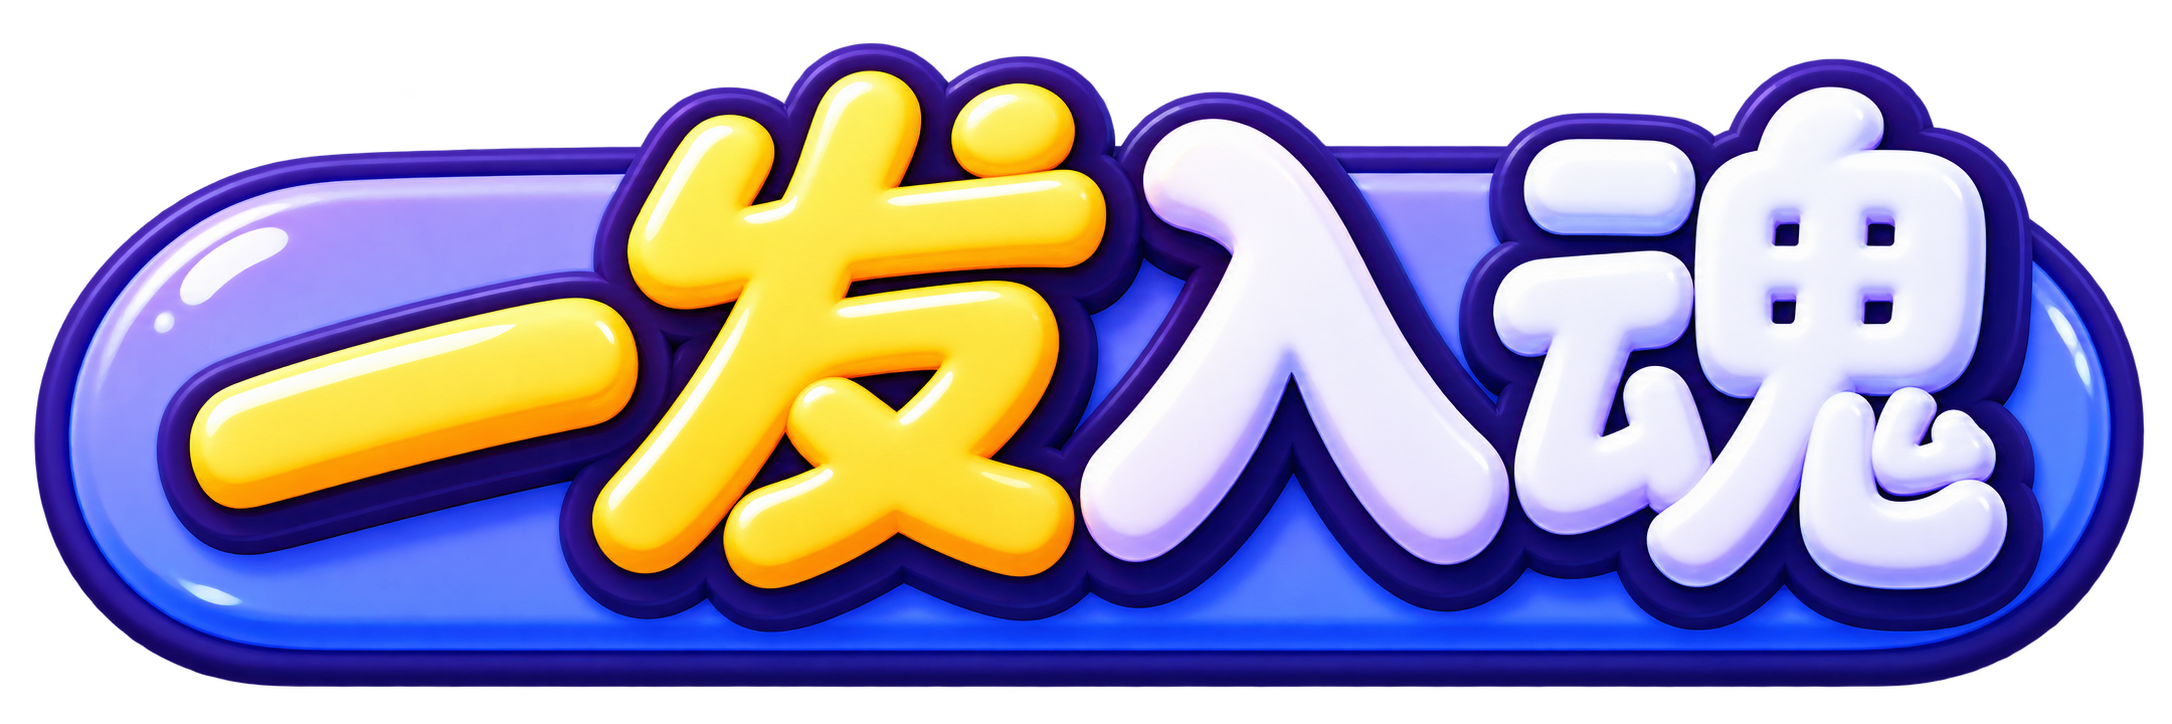
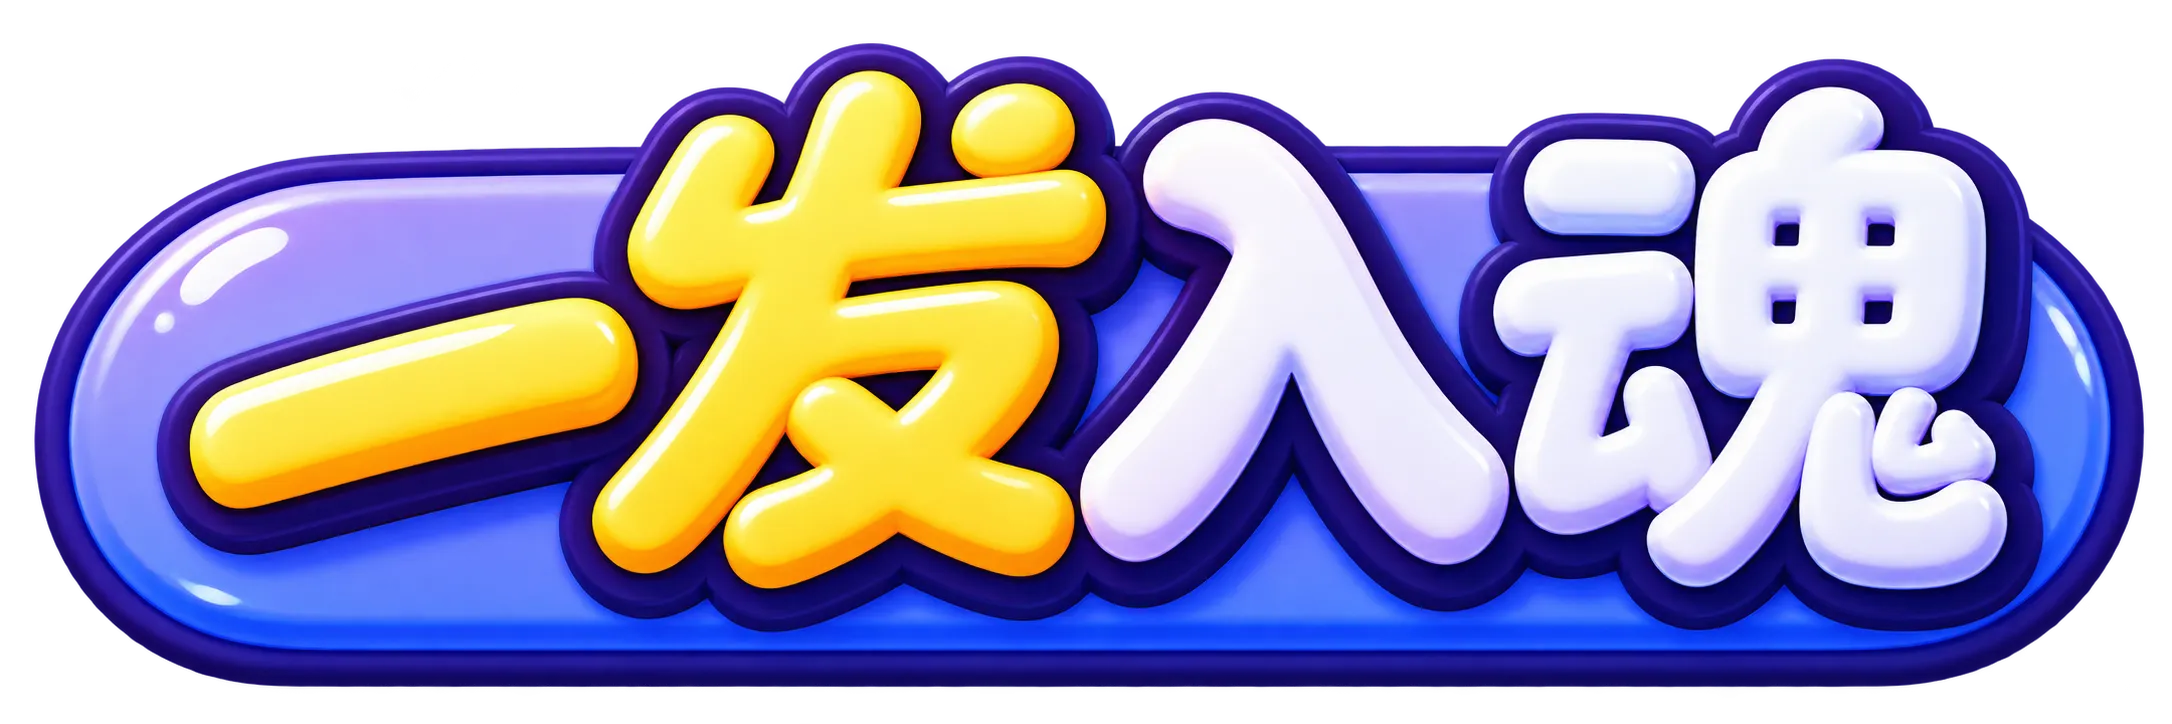
Optimize first load and defer game assets

diff --git a/game.js b/game.js
@@ -4,20 +4,22 @@
  let W=600,H=900;
  const origin={x:300,y:816},bounds={left:18,right:582,top:18,bottom:882};
  const $=id=>document.getElementById(id);
+ const now=()=>typeof performance!=='undefined'?performance.now():Date.now();
  // Art changes presentation only; all collisions remain in the original flat room.
  const art={};
  const artFiles={courtyard:'toy-courtyard-lawn-v1',gardenDecor:'toy-garden-decor-v1',player:'toy-player-poses',monster:'toy-bomb-satin-v1',normalMonster:'toy-normal-sculpt-v2',helmet:'toy-windup-cover-v1',helmetMonster:'toy-windup-armored-v1',helmetBare:'toy-windup-bare-v1',shield:'toy-shield-peek-v1',barrel:'toy-barrel',obstacle:'toy-wood-satin-v2',woodDamaged:'toy-wood-damaged-satin-v2',brick:'toy-limestone-v1',iron:'toy-basalt-v1'};
- let assetsReady=typeof Image==='undefined';
- let gameEntered=assetsReady;
+ let assetsReady=typeof Image==='undefined',allAssetsReady=assetsReady,initialReadyAt=assetsReady?now():0,gameEntered=assetsReady;
+ let ensureLevelAssets=()=>Promise.resolve(true),showLevelLoading=()=>{};
  if(!assetsReady)for(const key of Object.keys(artFiles))art[key]=new Image();
- // Count decoded assets, not estimated download bytes. Keep the game gated on failure.
+ // Gate on first-level art and visible UI; defer art used only by later levels.
  function prepareAssets(){
   if(assetsReady)return;
-  const jobs=[...Object.entries(artFiles).map(([key,file])=>({img:art[key],file})),...Array.from(document.querySelectorAll('img[data-asset]'),img=>({img,file:img.dataset.asset}))];
+  const jobs=[...Object.entries(artFiles).map(([key,file])=>({key,img:art[key],file,done:false})),{key:'toy-normal-current',img:$('currentAmmoIcon'),file:'toy-normal',done:false},...Array.from(document.querySelectorAll('img[data-asset]'),img=>({key:img.dataset.asset,img,file:img.dataset.asset,done:false}))];
+  const byKey=new Map(jobs.map(job=>[job.key,job]));
+  const firstLevelKeys=['courtyard','gardenDecor','player','normalMonster','toy-title','toy-normal-current','toy-fast','toy-explosive','toy-scatter'];
   const progress=$('loadingProgress'),status=$('loadingStatus'),retry=$('loadingRetry'),main=document.querySelector('main');
-  let running=false;
-  const completed=()=>jobs.filter(job=>job.done).length;
-  const report=()=>{progress.max=jobs.length;progress.value=completed();status.textContent=`素材准备 ${completed()} / ${jobs.length} · ${Math.round(completed()/jobs.length*100)}%`;};
+  let running=false,backgroundPromise=null,pendingLevel=null,loadRequest=0;
+  const report=(queue,label='首关画面')=>{const done=queue.filter(job=>job.done).length;progress.max=queue.length;progress.value=done;status.textContent=`${label} ${done} / ${queue.length} · ${Math.round(done/queue.length*100)}%`;};
   const fetchImage=(job,attempt)=>new Promise((resolve,reject)=>{
    const img=job.img;let finished=false;
    const finish=error=>{if(finished)return;finished=true;clearTimeout(timer);img.onload=img.onerror=null;error?reject(error):resolve();};
@@ -27,24 +29,46 @@
    // The third attempt is the original PNG, also a fallback for older WebP decoders.
    img.src=`assets/${job.file}.${attempt===2?'png':'webp'}${attempt===1?`?retry=${Date.now()}`:''}`;
   });
-  async function run(){
-   if(running)return;running=true;retry.hidden=true;report();
-   await Promise.all(jobs.filter(job=>!job.done).map(async job=>{
-    for(let attempt=0;attempt<3;attempt++)try{await fetchImage(job,attempt);job.done=true;report();return;}catch{/* Retry only this failed asset; keep all successful downloads. */}
-   }));
-   running=false;
-   if(completed()!==jobs.length){status.textContent=`还有 ${jobs.length-completed()} 个素材未加载成功，请检查网络后重试。`;retry.hidden=false;return;}
-   status.textContent='正在准备持枪小人…';await window.playerModelReady;
-   assetsReady=true;status.textContent=window.playerModel?.ready?'准备就绪 · 点击进入，音乐随即开启':'准备就绪 · 使用兼容人物画面';$('loadingStart').hidden=false;
+  async function loadJobs(queue,onProgress){
+   const results=await Promise.all(queue.map(async job=>{
+    if(job.done)return true;
+    if(job.promise)return job.promise;
+    job.promise=(async()=>{for(let attempt=0;attempt<3;attempt++)try{await fetchImage(job,attempt);job.done=true;onProgress?.();return true;}catch{/* Retry only this failed asset; keep all successful downloads. */}return false;})().finally(()=>{job.promise=null;});
+    return job.promise;
+   }));return results.every(Boolean);
   }
-  $('loadingStart').onclick=async()=>{
-   const button=$('loadingStart');if(!assetsReady||button.disabled)return;
-   button.disabled=true;button.textContent='正在准备音乐…';
-   try{await window.gameAudio?.start();}finally{
-    gameEntered=true;dragging=false;main.inert=false;document.body.classList.remove('loading');syncCanvas();draw();$('loadingScreen').hidden=true;
-   }
+  const requiredKeys=index=>{
+   const level=levels[index],keys=new Set(['courtyard','gardenDecor','player','normalMonster','toy-title','toy-normal-current']);
+   for(const enemy of level.enemies){const type=enemy[2]||'normal';if(type==='bomb')keys.add('monster');if(type==='shield')keys.add('shield');if(type==='helmet'){keys.add('helmetMonster');keys.add('helmetBare');keys.add('helmet');}}
+   for(const wall of level.walls){const type=wall.type||'iron';keys.add(type);if(type==='obstacle')keys.add('woodDamaged');}
+   if(level.barrels.length)keys.add('barrel');return [...keys];
   };
-  retry.onclick=run;run();
+  const keysReady=keys=>keys.every(key=>byKey.get(key)?.done);
+  ensureLevelAssets=async index=>{const queue=requiredKeys(index).map(key=>byKey.get(key));if(queue.some(job=>!job))return false;return loadJobs(queue,()=>{if(!loadingScreen.hidden)report(queue,'本关画面');});};
+  const showPendingLevel=(index,keep,request)=>{pendingLevel={index,keep,request};main.inert=true;loadingScreen.hidden=false;retry.hidden=true;const queue=requiredKeys(index).map(key=>byKey.get(key)).filter(Boolean);report(queue,'本关画面');};
+  showLevelLoading=(index,keep)=>{const keys=requiredKeys(index);if(keysReady(keys))return null;const request=++loadRequest;showPendingLevel(index,keep,request);return ensureLevelAssets(index).then(ok=>{if(request!==loadRequest)return false;if(ok){pendingLevel=null;main.inert=false;loadingScreen.hidden=true;load(index,keep);return true;}status.textContent='本关素材加载失败，请检查网络后重试。';retry.hidden=false;return false;});};
+  async function runInitial(){
+   if(running)return;running=true;retry.hidden=true;const queue=firstLevelKeys.map(key=>byKey.get(key));report(queue);
+   const ok=await loadJobs(queue,()=>report(queue));
+   if(!ok){running=false;status.textContent=`首关还有 ${queue.filter(job=>!job.done).length} 个素材未加载成功，请检查网络后重试。`;retry.hidden=false;return;}
+   status.textContent='正在准备持枪小人…';progress.max=1;progress.value=0;
+   await window.loadPlayerModel?.();
+   assetsReady=true;initialReadyAt=now();running=false;progress.value=1;status.textContent=window.playerModel?.ready?'准备就绪 · 点击进入，音乐随即开启':'准备就绪 · 使用兼容人物画面';$('loadingStart').hidden=false;
+  }
+  function runBackground(){
+   if(backgroundPromise)return backgroundPromise;
+   const remaining=jobs.filter(job=>!job.done&&!firstLevelKeys.includes(job.key));
+   backgroundPromise=loadJobs(remaining).then(ok=>{allAssetsReady=ok;return ok;});return backgroundPromise;
+  }
+  retry.onclick=()=>{if(!gameEntered){runInitial();return;}if(pendingLevel)load(pendingLevel.index,pendingLevel.keep);};
+  $('loadingStart').onclick=()=>{
+   const button=$('loadingStart');if(!assetsReady||button.disabled)return;
+   button.disabled=true;button.hidden=true;button.textContent='正在准备音乐…';
+   const audioReady=Promise.resolve(window.gameAudio?.start()).catch(()=>{});
+   gameEntered=true;dragging=false;main.inert=false;document.body.classList.remove('loading');syncCanvas();draw();$('loadingScreen').hidden=true;
+   audioReady.finally(runBackground);
+  };
+  runInitial();
  }
  const ready=img=>img&&img.complete&&img.naturalWidth>0;
  let recoilUntil=0;
@@ -147,7 +171,8 @@
  function refreshTrajectory(){const button=$('viewTrajectory');button.disabled=state.phase!=='aim'||!previous.length;button.textContent=showPrevious?'取消查看轨迹':'查看轨迹';button.setAttribute('aria-pressed',String(showPrevious));button.setAttribute('aria-label',button.textContent);button.title=previous.length?(showPrevious?'再次点击取消查看轨迹':'点击查看上一枪轨迹'):'先射击一次，下一枪或重试时可查看';}
  $('viewTrajectory').onclick=()=>{if(state.phase!=='aim'||!previous.length)return;showPrevious=!showPrevious;refreshTrajectory();};
  function selectAmmo(type){if(!ammoTypes[type]||state.phase!=='aim'||state.inventory[type]<=0)return false;selectedAmmo=type;state.ammo=type;refreshAmmo();return true;}
- function load(index,keep=false){previous=keep&&state?.index===index?(state.segments.length?state.segments.map(s=>({...s})):previous):[];showPrevious=false;configureRoom(index);state=newState(index);if(!state.inventory[selectedAmmo])selectedAmmo=Object.keys(levels[index].ammo)[0];state.ammo=selectedAmmo;dragging=false;slow=0;screenShake=0;$('result').hidden=true;$('levelName').textContent=`${levelGroups[levels[index].group].short} ${String(levels[index].number).padStart(2,'0')} / ${levels[index].name.split(' · ')[1]}`;$('stateText').textContent='拖动瞄准 · 松手开枪';refreshAmmo();updateCounter();refreshComparison();document.querySelectorAll('.level-button').forEach(b=>b.classList.toggle('active',Number(b.dataset.levelIndex)===index));}
+ function applyLoad(index,keep=false){previous=keep&&state?.index===index?(state.segments.length?state.segments.map(s=>({...s})):previous):[];showPrevious=false;configureRoom(index);state=newState(index);if(!state.inventory[selectedAmmo])selectedAmmo=Object.keys(levels[index].ammo)[0];state.ammo=selectedAmmo;dragging=false;slow=0;screenShake=0;$('result').hidden=true;$('levelName').textContent=`${levelGroups[levels[index].group].short} ${String(levels[index].number).padStart(2,'0')} / ${levels[index].name.split(' · ')[1]}`;$('stateText').textContent='拖动瞄准 · 松手开枪';refreshAmmo();updateCounter();refreshComparison();document.querySelectorAll('.level-button').forEach(b=>b.classList.toggle('active',Number(b.dataset.levelIndex)===index));}
+ function load(index,keep=false){if(!gameEntered){applyLoad(index,keep);return;}const waiting=showLevelLoading(index,keep);if(waiting)return waiting;applyLoad(index,keep);return Promise.resolve(true);}
  function refreshComparison(){const r=comparison[state.index];$('comparison').hidden=false;$('comparisonRows').innerHTML=`<tr><td>本关</td><td>${r?r.last+'/'+state.enemies.length:'—'}</td><td>${r?r.best+'/'+state.enemies.length:'—'}</td><td>${r?r.bestScore:'—'}</td><td>${r?'★'.repeat(r.bestStars)+'☆'.repeat(3-r.bestStars):'—'}</td><td>${r?r.tries:0}</td></tr>`;const [two,three]=levels[state.index].starScores;$('ratingGoal').textContent=two===three?'机制教学：清场即可三星。':`星级目标：通关至少一星 · 二星 ${two} 分 · 三星 ${three} 分。连击和省弹都能提高总分。`;refreshLevelSelection();}
  function refreshLevelSelection(){const nav=$('levels'),active=nav.querySelector?.(`[data-level-index="${state.index}"]`);if(active){const top=active.getBoundingClientRect().top-nav.getBoundingClientRect().top+nav.scrollTop;if(top<nav.scrollTop)nav.scrollTop=top;else if(top+active.offsetHeight>nav.scrollTop+nav.clientHeight)nav.scrollTop=top+active.offsetHeight-nav.clientHeight;}}
 
@@ -553,7 +578,7 @@
  load(Math.max(0,levels.findIndex(l=>l.group==='formal')));let lastShotCount=stats.shots;function frame(time){let dt=Math.min(.032,(time-lastTime)/1000||.016);lastTime=time;if(lastShotCount!==stats.shots){lastShotCount=stats.shots;recoilUntil=state.time+.12;}if(slow>0){slow-=dt;dt*=.35;}update(dt);draw();requestAnimationFrame(frame);}requestAnimationFrame(frame);
  prepareAssets();
  // Small diagnostic surface for repeatable shot and physics verification.
- window.demo={get gameEntered(){return gameEntered;},get assetsReady(){return assetsReady;},get state(){return state;},get stage(){return {W,H,origin,bounds};},get playerRig(){return playerRig();},courtyardDetails,get courtyardDecor(){return courtyardCache?.details.map(item=>({...item}))||[];},enemyIdlePose,shieldPeekPose,shadowGeometry,terrainVolume,shieldGeometry,rotorContact,rotorRay,rotorRules,comparison,levels,ammoTypes,scoreRules,starsForScore,selectAmmo,load,shootAt(x,y){if(state.phase!=='aim')return;const dx=x-origin.x,dy=Math.min(-30,y-origin.y),length=Math.hypot(dx,dy);aim={x:dx/length,y:dy/length};shoot();},step:update,render:draw,stats};
+ window.demo={get gameEntered(){return gameEntered;},get assetsReady(){return assetsReady;},get allAssetsReady(){return allAssetsReady;},get initialReadyMs(){return initialReadyAt;},get playerMode(){return window.playerModel?.ready?'3d':'sprite';},get state(){return state;},get stage(){return {W,H,origin,bounds};},get playerRig(){return playerRig();},assetReady(key){return !!art[key]&&ready(art[key]);},courtyardDetails,get courtyardDecor(){return courtyardCache?.details.map(item=>({...item}))||[];},enemyIdlePose,shieldPeekPose,shadowGeometry,terrainVolume,shieldGeometry,rotorContact,rotorRay,rotorRules,comparison,levels,ammoTypes,scoreRules,starsForScore,selectAmmo,load,shootAt(x,y){if(state.phase!=='aim')return;const dx=x-origin.x,dy=Math.min(-30,y-origin.y),length=Math.hypot(dx,dy);aim={x:dx/length,y:dy/length};shoot();},step:update,render:draw,stats};
  window.demo.enemyGrounding=enemyGrounding;
 })();
 

diff --git a/index.html b/index.html
@@ -3,7 +3,7 @@
 <head><meta charset="UTF-8"><meta name="viewport" content="width=device-width,initial-scale=1,viewport-fit=cover"><meta name="theme-color" content="#fff0ce"><title>一发入魂 · 玩具小院</title><link rel="stylesheet" href="style.css"><link rel="stylesheet" href="casual.css"></head>
 <body class="loading">
 
-<section id="loadingScreen" aria-label="加载游戏"><div class="loading-card"><div class="loading-mark" aria-hidden="true"><img src="assets/icons/bullseye.svg" alt=""></div><p class="loading-kicker">玩具小院 · 弹射挑战</p><h1>一发入魂</h1><p class="loading-subtitle">找准角度，让每一发都算数。</p><progress id="loadingProgress" max="19" value="0" aria-label="游戏素材加载进度"></progress><p id="loadingStatus" role="status">准备加载…</p><button id="loadingStart" hidden>点击进入游戏</button><button id="loadingRetry" hidden>重新加载</button><noscript>请开启浏览器 JavaScript 后重新打开游戏。</noscript></div></section>
+<section id="loadingScreen" aria-label="加载游戏"><div class="loading-card"><div class="loading-mark" aria-hidden="true"><img src="assets/icons/bullseye.svg" alt=""></div><p class="loading-kicker">玩具小院 · 弹射挑战</p><h1>一发入魂</h1><p class="loading-subtitle">找准角度，让每一发都算数。</p><progress id="loadingProgress" max="9" value="0" aria-label="游戏素材加载进度"></progress><p id="loadingStatus" role="status">准备加载…</p><button id="loadingStart" hidden>点击进入游戏</button><button id="loadingRetry" hidden>重新加载</button><noscript>请开启浏览器 JavaScript 后重新打开游戏。</noscript></div></section>
 <main inert>
  <header><a class="brand" href="./"><img class="title-art" data-asset="toy-title" alt="一发入魂"><span>玩具小院</span></a></header>
  <section class="intro"><p>找个角度，让这一枪多飞一会。</p></section>

diff --git a/player-bootstrap.js b/player-bootstrap.js
@@ -1,9 +1,14 @@
-// A bounded optional model load: keep the existing whole-pose sprite fallback.
+// Load the same 3D player before entry, but only after first-level art is ready.
+// If the local renderer is slow, settle on the pose sprite for this whole session.
 window.playerModelReady=Promise.resolve();
-if(location.protocol!=='file:'){
+window.loadPlayerModel=()=>{
+ if(location.protocol==='file:')return Promise.resolve();
+ if(window.playerModelLoad)return window.playerModelLoad;
  let expired=false,timer;
- window.playerModelReady=Promise.race([
+ window.playerModelLoad=Promise.race([
   import('./player-renderer.js').then(({createPlayerRenderer})=>expired?null:createPlayerRenderer()),
-  new Promise(resolve=>{timer=setTimeout(()=>{expired=true;resolve(null);},45000);})
+  new Promise(resolve=>{timer=setTimeout(()=>{expired=true;resolve(null);},10000);})
  ]).then(renderer=>{if(renderer)window.playerModel=renderer;}).catch(()=>{window.playerModel=null;}).finally(()=>clearTimeout(timer));
-}
+ window.playerModelReady=window.playerModelLoad;
+ return window.playerModelLoad;
+};

diff --git a/游戏内容说明.md b/游戏内容说明.md
@@ -806,6 +806,8 @@ git diff --check
 
 本次发布检查包含语法、17关核心 / 配额参考解、手机慢网 / 缺图失败重试、进入即音乐及模型失效回退。此前0.44的390/320材质 / 反馈 / 原手机交互回归已通过。资源检查覆盖相对路径、模型依赖和许可证；清理新纳入文件的纯空白格式问题，并将实验页返回链接从站点根目录改为../index.html，兼容Pages子路径。仅上传游戏源码 / 素材 / 文档 / 检查，忽略临时工具、浏览器配置及截图；精确结果记录于交付与design-qa.md。
 
+本地首进加载优化（2026-10-15）：启动只等待首关画面、标题 / 弹药图标，以及最多10秒的小人3D初始化；点击进入后立即显示游戏，音乐下载和解码在后台继续。其余关卡素材在进入后后台预载；切关前检查该关所需图片，未就绪时保留原关画面并显示加载 / 重试，不显示缺图的新关。若3D模型超时或初始化失败，本次游玩固定使用原姿势图，不在游玩中途替换角色。19个运行WebP以quality 80重新编码，合计从11,505,968降至1,861,338字节（减少83.8%）；像素尺寸不变，PNG源图及失败回退保留。冷缓存、200KB/s下载与200ms延迟、390px手机模拟实测页面导航到可进入为19.8秒，点击进入到游戏响应为0.23秒；加载检查也验证首关缺图重试、第二关缺图时不切场景、3D失败后人物不切换。仅本地迭代，未发布线上。
+
 本地0.25（2026-10-14）：取代0.22素材完成后自动进入及0.24首次瞄准启动音乐的入口。15个图片素材下载 / 解码完后保持加载页，显示“点击进入游戏”；点击后在真实click手势中调用`gameAudio.start()`，按钮禁用并显示“正在准备音乐…”，音乐启动后再解除主界面inert并显示场景，不等待第一枪。`demo.assetsReady`表示图片就绪，新增`demo.gameEntered`表示已进入；瞄准和`shoot`改为校验gameEntered。无Image的Node物理测试仍立即就绪 / 进入。切关、重试不再弹出入口，刷新重新显示。
 
 背景音乐下载最长等待8秒，超时或HTTP失败改用原确定性合成音乐；若浏览器音频初始化失败，保留声音错误提示但仍进入游戏，不因声音失败阻断玩法。音频仍默认开启、总音量55%，手动关闭不自动重开；加载页面阶段不播放，普通触摸解锁监听只在进入后恢复音频，避免点击进入时重复启动。进入按钮保留键盘可用的标准button行为。

diff --git a/assets/toy-art.md b/assets/toy-art.md
@@ -1,14 +1,18 @@
 # 玩具小院素材记录
 
+## 运行WebP首进体积优化（2026-10-15）
+
+当前19个实际引用的运行WebP以Pillow WebP quality 80 / method 3重新编码；总量从11,505,968降至1,861,338字节，减少83.8%。所有图像尺寸保持原值，透明图保留alpha通道；原始PNG不改，继续作为生成源与加载失败回退。照片 / 透明角色的运行图改为有损WebP，视觉检查以真实游戏画面为准，不能再以PNG与WebP像素完全一致作为要求。首关及界面关键图片（庭院、装饰、玩家姿势、普通怪、标题和四种弹药图标）共约1,171,884字节；其它关卡图在入场后预载，并在切关前确认目标素材已就绪。
+
 ## 草坪庭院与木石材质（2026-10-15，0.42本地）
 
 内置imagegen按原图编辑，不是CLI。庭院参考toy-courtyard-satin-v2.png，浅石材参考toy-brick-satin-v2.png，深石材参考toy-iron-satin-v2.png。保留暖左上光，木纹及受损木纹复用。
 
 | 项目素材（PNG / WebP） | 生成源文件 | 运行PNG尺寸 / 字节 | WebP字节 |
 | --- | --- | --- | --- |
-| assets/toy-courtyard-lawn-v1 | exec-7f1b360d-24dc-4d10-9544-165fc31e63df.png | 1024×1536 / 3394617 | 2189882 |
-| assets/toy-limestone-v1 | exec-50f5f166-9410-41f0-9e19-1283d8f64816.png | 627×627 / 994134 | 506690 |
-| assets/toy-basalt-v1 | exec-13ff67bb-1ed0-421f-8863-30c5614b8c43.png | 627×627 / 966261 | 523670 |
+| assets/toy-courtyard-lawn-v1 | exec-7f1b360d-24dc-4d10-9544-165fc31e63df.png | 1024×1536 / 3394617 | 332900 |
+| assets/toy-limestone-v1 | exec-50f5f166-9410-41f0-9e19-1283d8f64816.png | 627×627 / 994134 | 70296 |
+| assets/toy-basalt-v1 | exec-13ff67bb-1ed0-421f-8863-30c5614b8c43.png | 627×627 / 966261 | 79234 |
 
 生成源目录：C:/Users/LENOVO/.codex/generated_images/01a0d233-627f-7be3-8ce8-882181e1a80f/。两石材原图1254×1254保存在assets/toy-limestone-v1-source.png与assets/toy-basalt-v1-source.png；运行图仅用System.Drawing高质量双三次等比归一到627，不重画 / 修色 / 裁切造型。Pillow仅无损编码，运行PNG / WebP完整RGBA一致。三份运行WebP共3,220,242字节；石材归一避免下载无必要的大纹理，旧素材保留。
 
